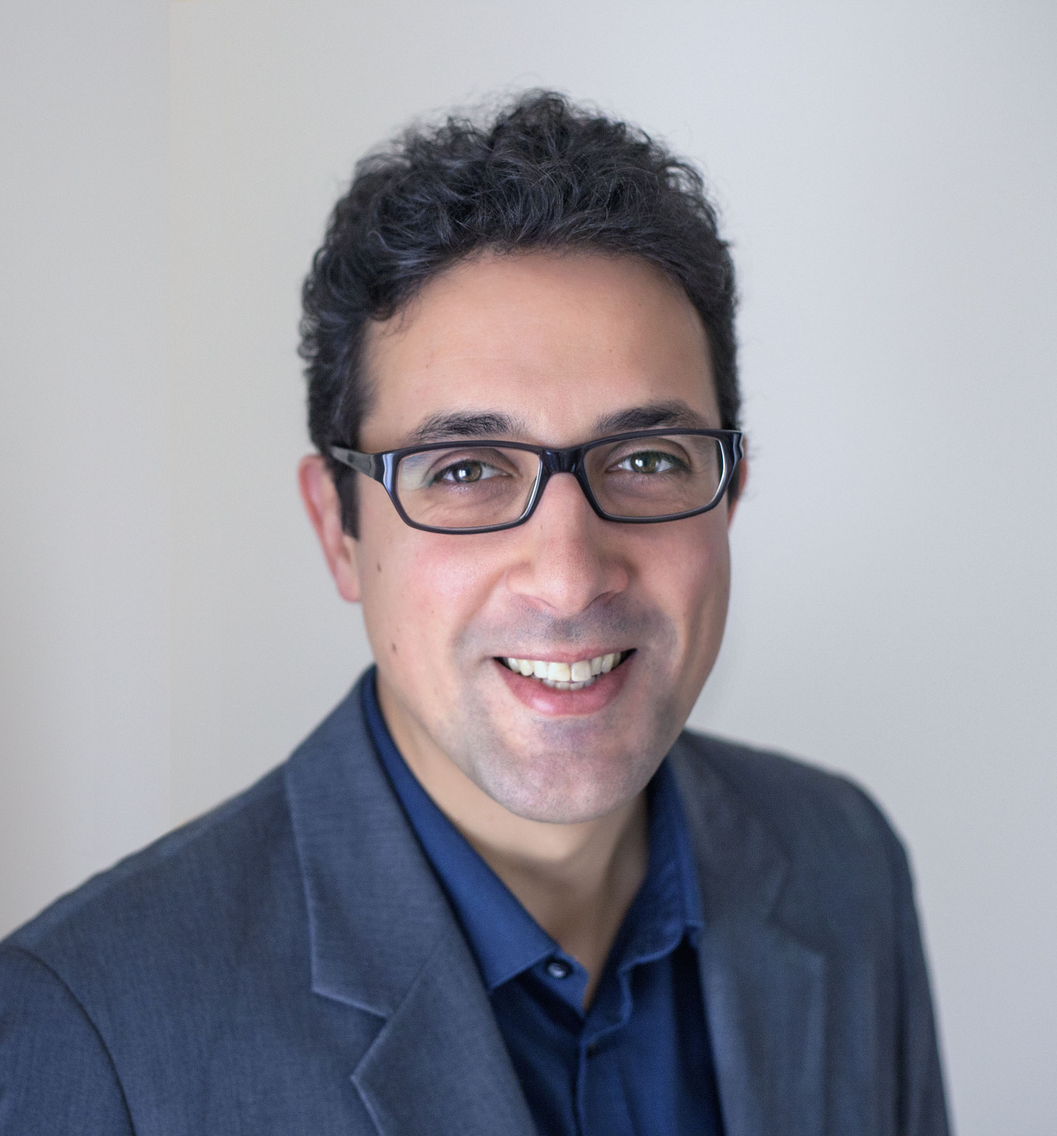
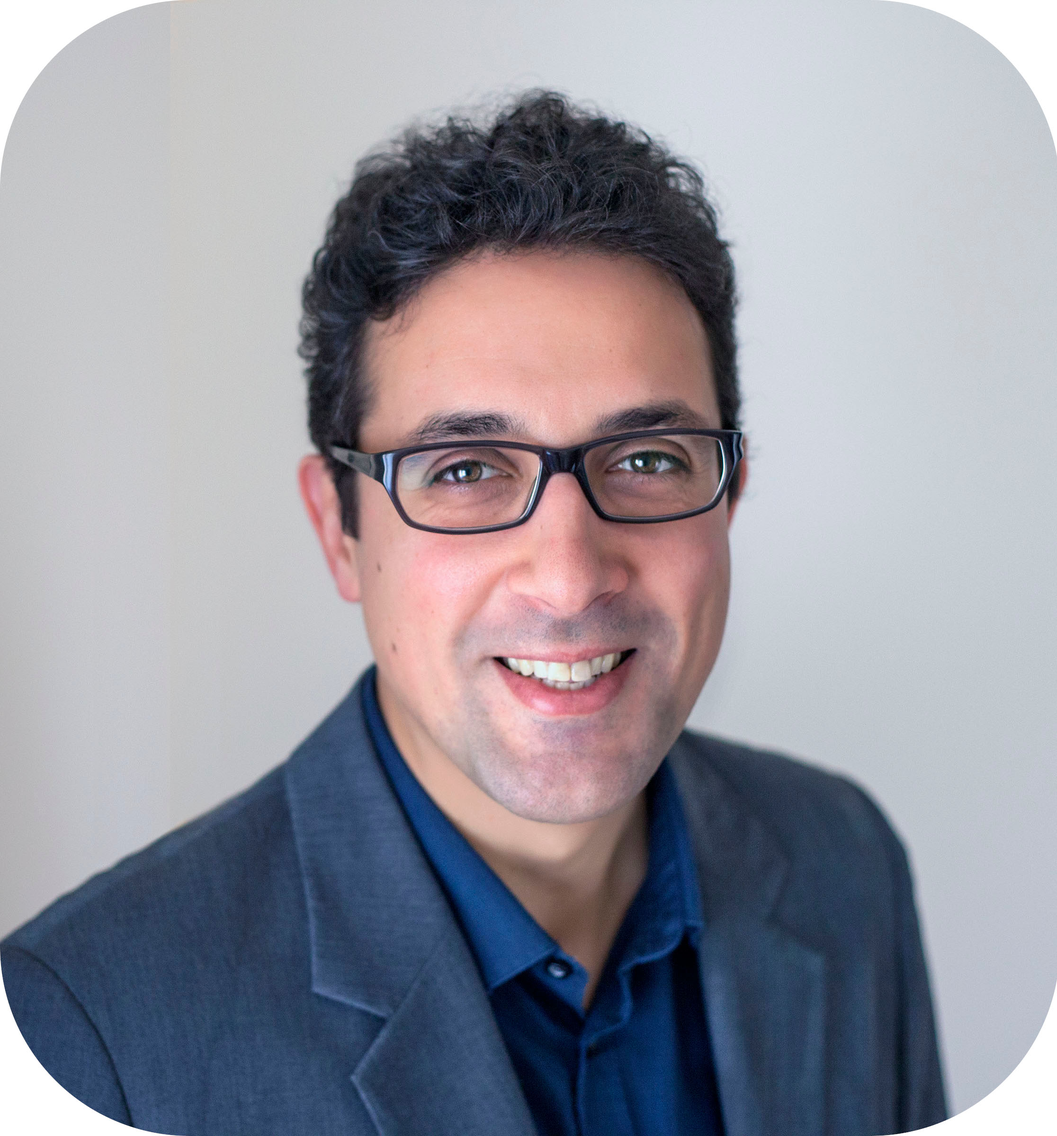
Updates.

diff --git a/professional.md b/professional.md
@@ -20,10 +20,11 @@ permalink: /professional/
 
 ## Director of Terahertz Technology at Das-Nano
 
-- Developed a aystem for multi-layer thickness and adherence characterization of composite structures for the renewable energy and aeronautic industries
-- Developed a system for 2D materials characterization for the semiconductor and materials research sectors
-- Developed new authentication features for the high-security printing industry
-- Led efforts for the standarization of terahertz based methods of graphene characterization
+- [**IRYS:**](https://das-nano.com/multilayer-coating-thickness-measurement-and-data-analysis/) Non-contact multi-layer thickness measurement for the automotive industry
+- [**NOTUS:**](https://das-nano.com/notus-terahertz-technology/) System for multi-layer thickness and adherence characterization of composite structures
+- [**ONYX:**](https://das-nano.com/onyx-terahertz-technology/) System for 2D materials characterization for the semiconductor and materials research
+- Standarization of terahertz based methods of graphene characterization
+- Authentication features for the high-security printing industry
 
 <iframe src="https://onedrive.live.com/embed?resid=F5F1ECEA6F58D121%21598138&authkey=!AOmK_Md4uyqHLrs&em=2" width="700" height="395" frameborder="0" scrolling="no"></iframe>
 
